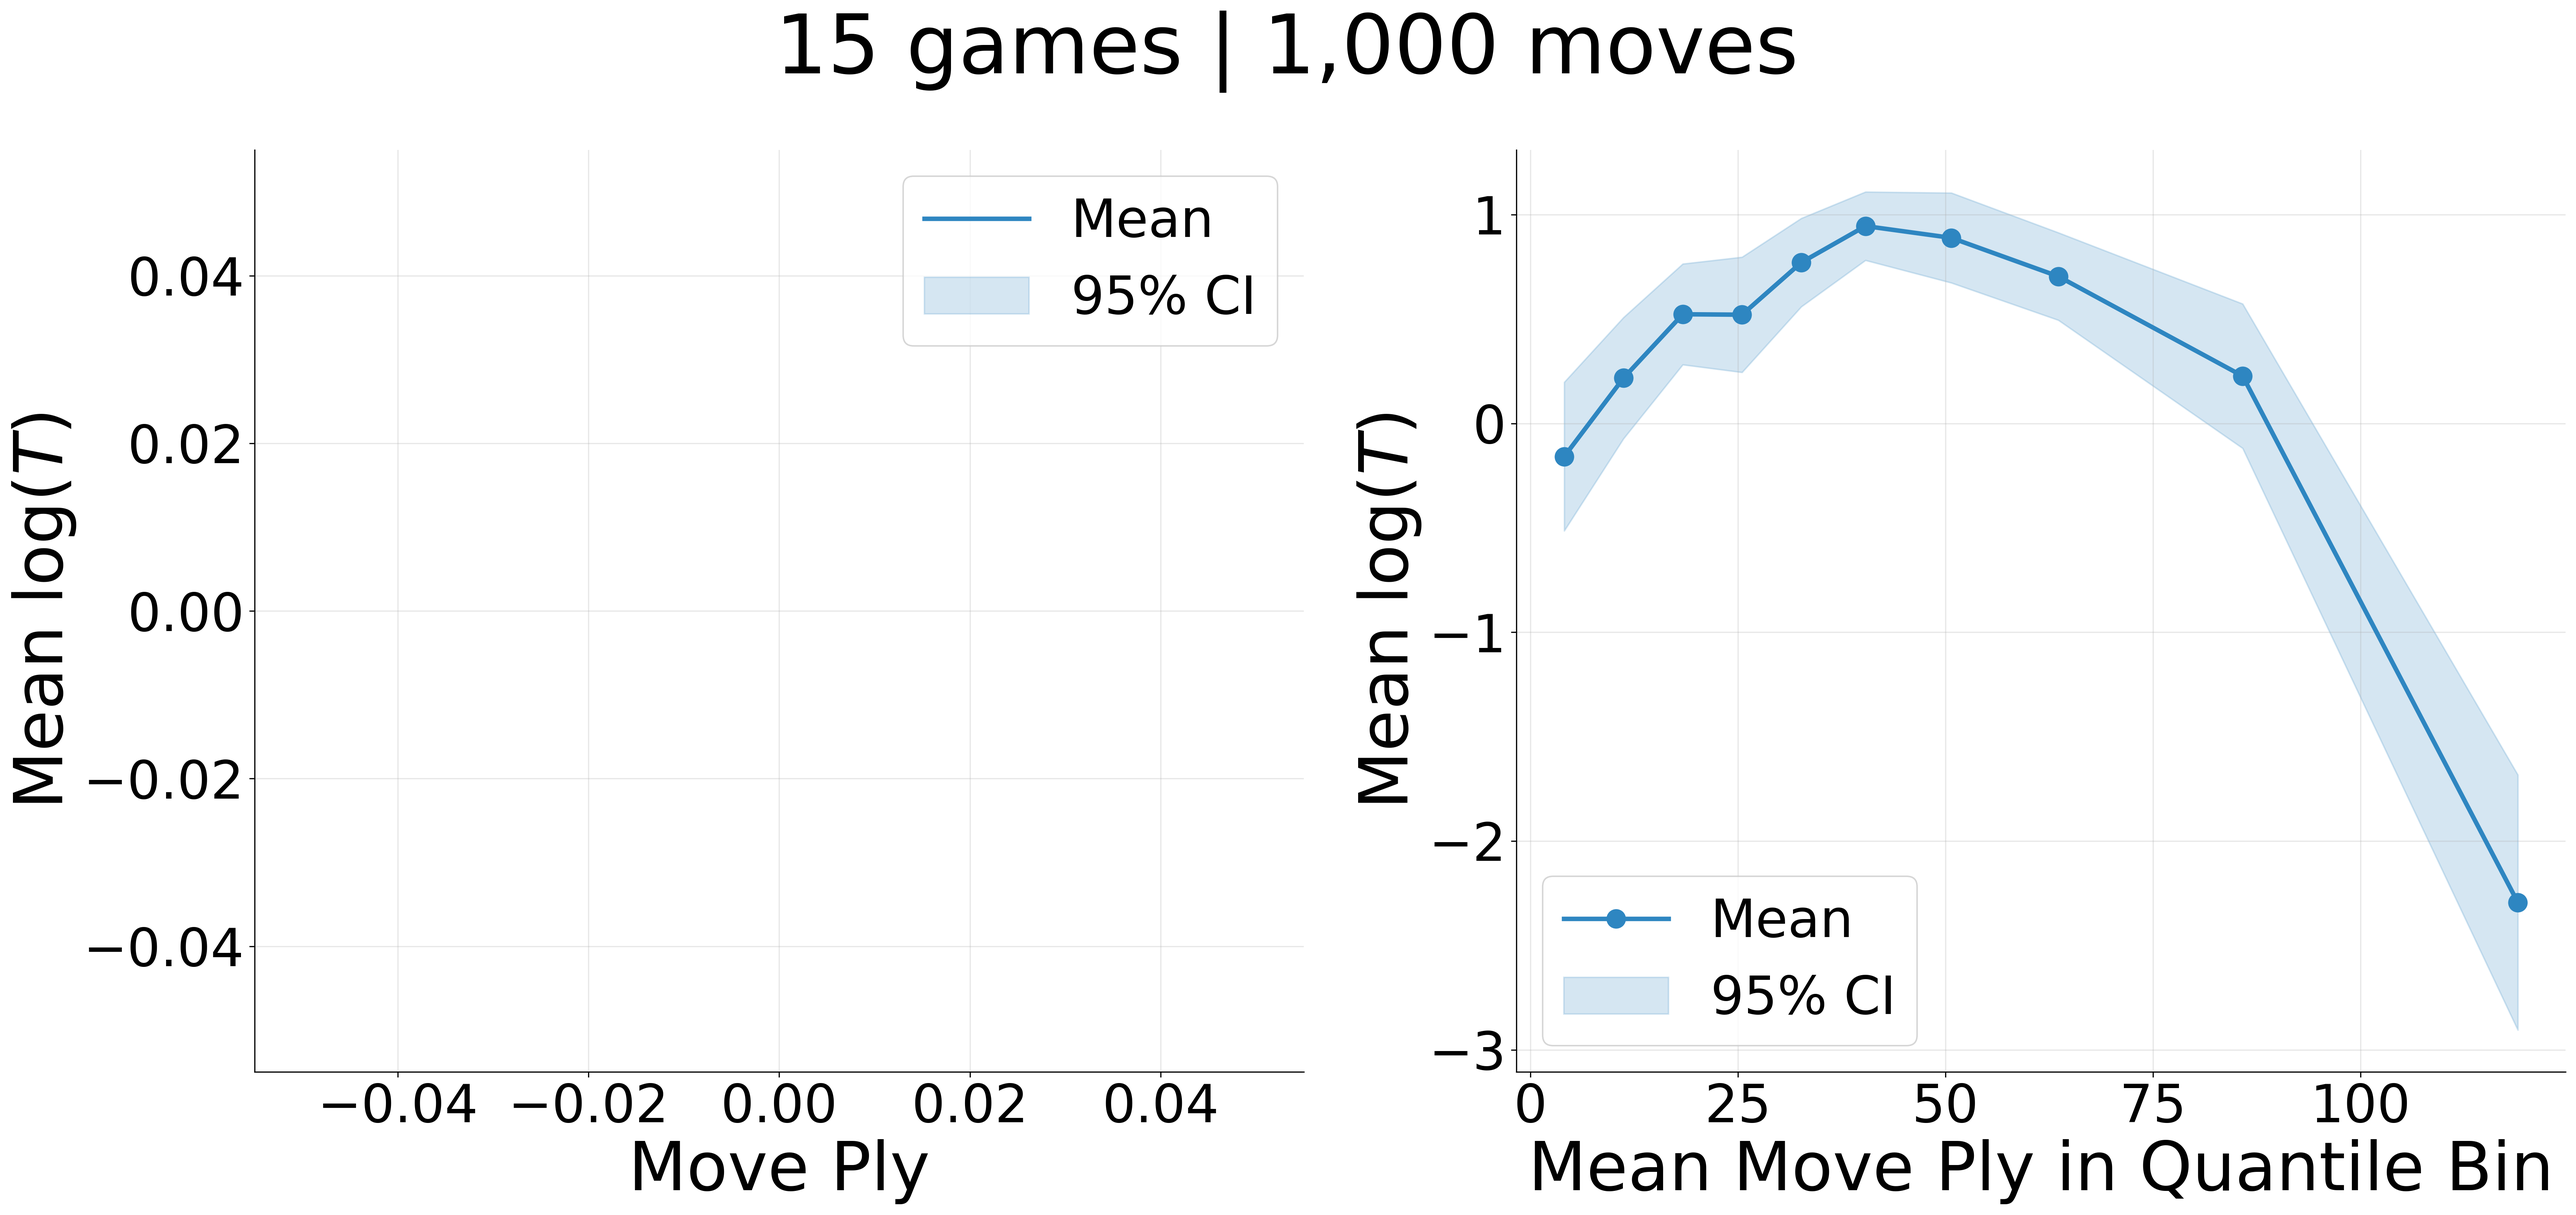
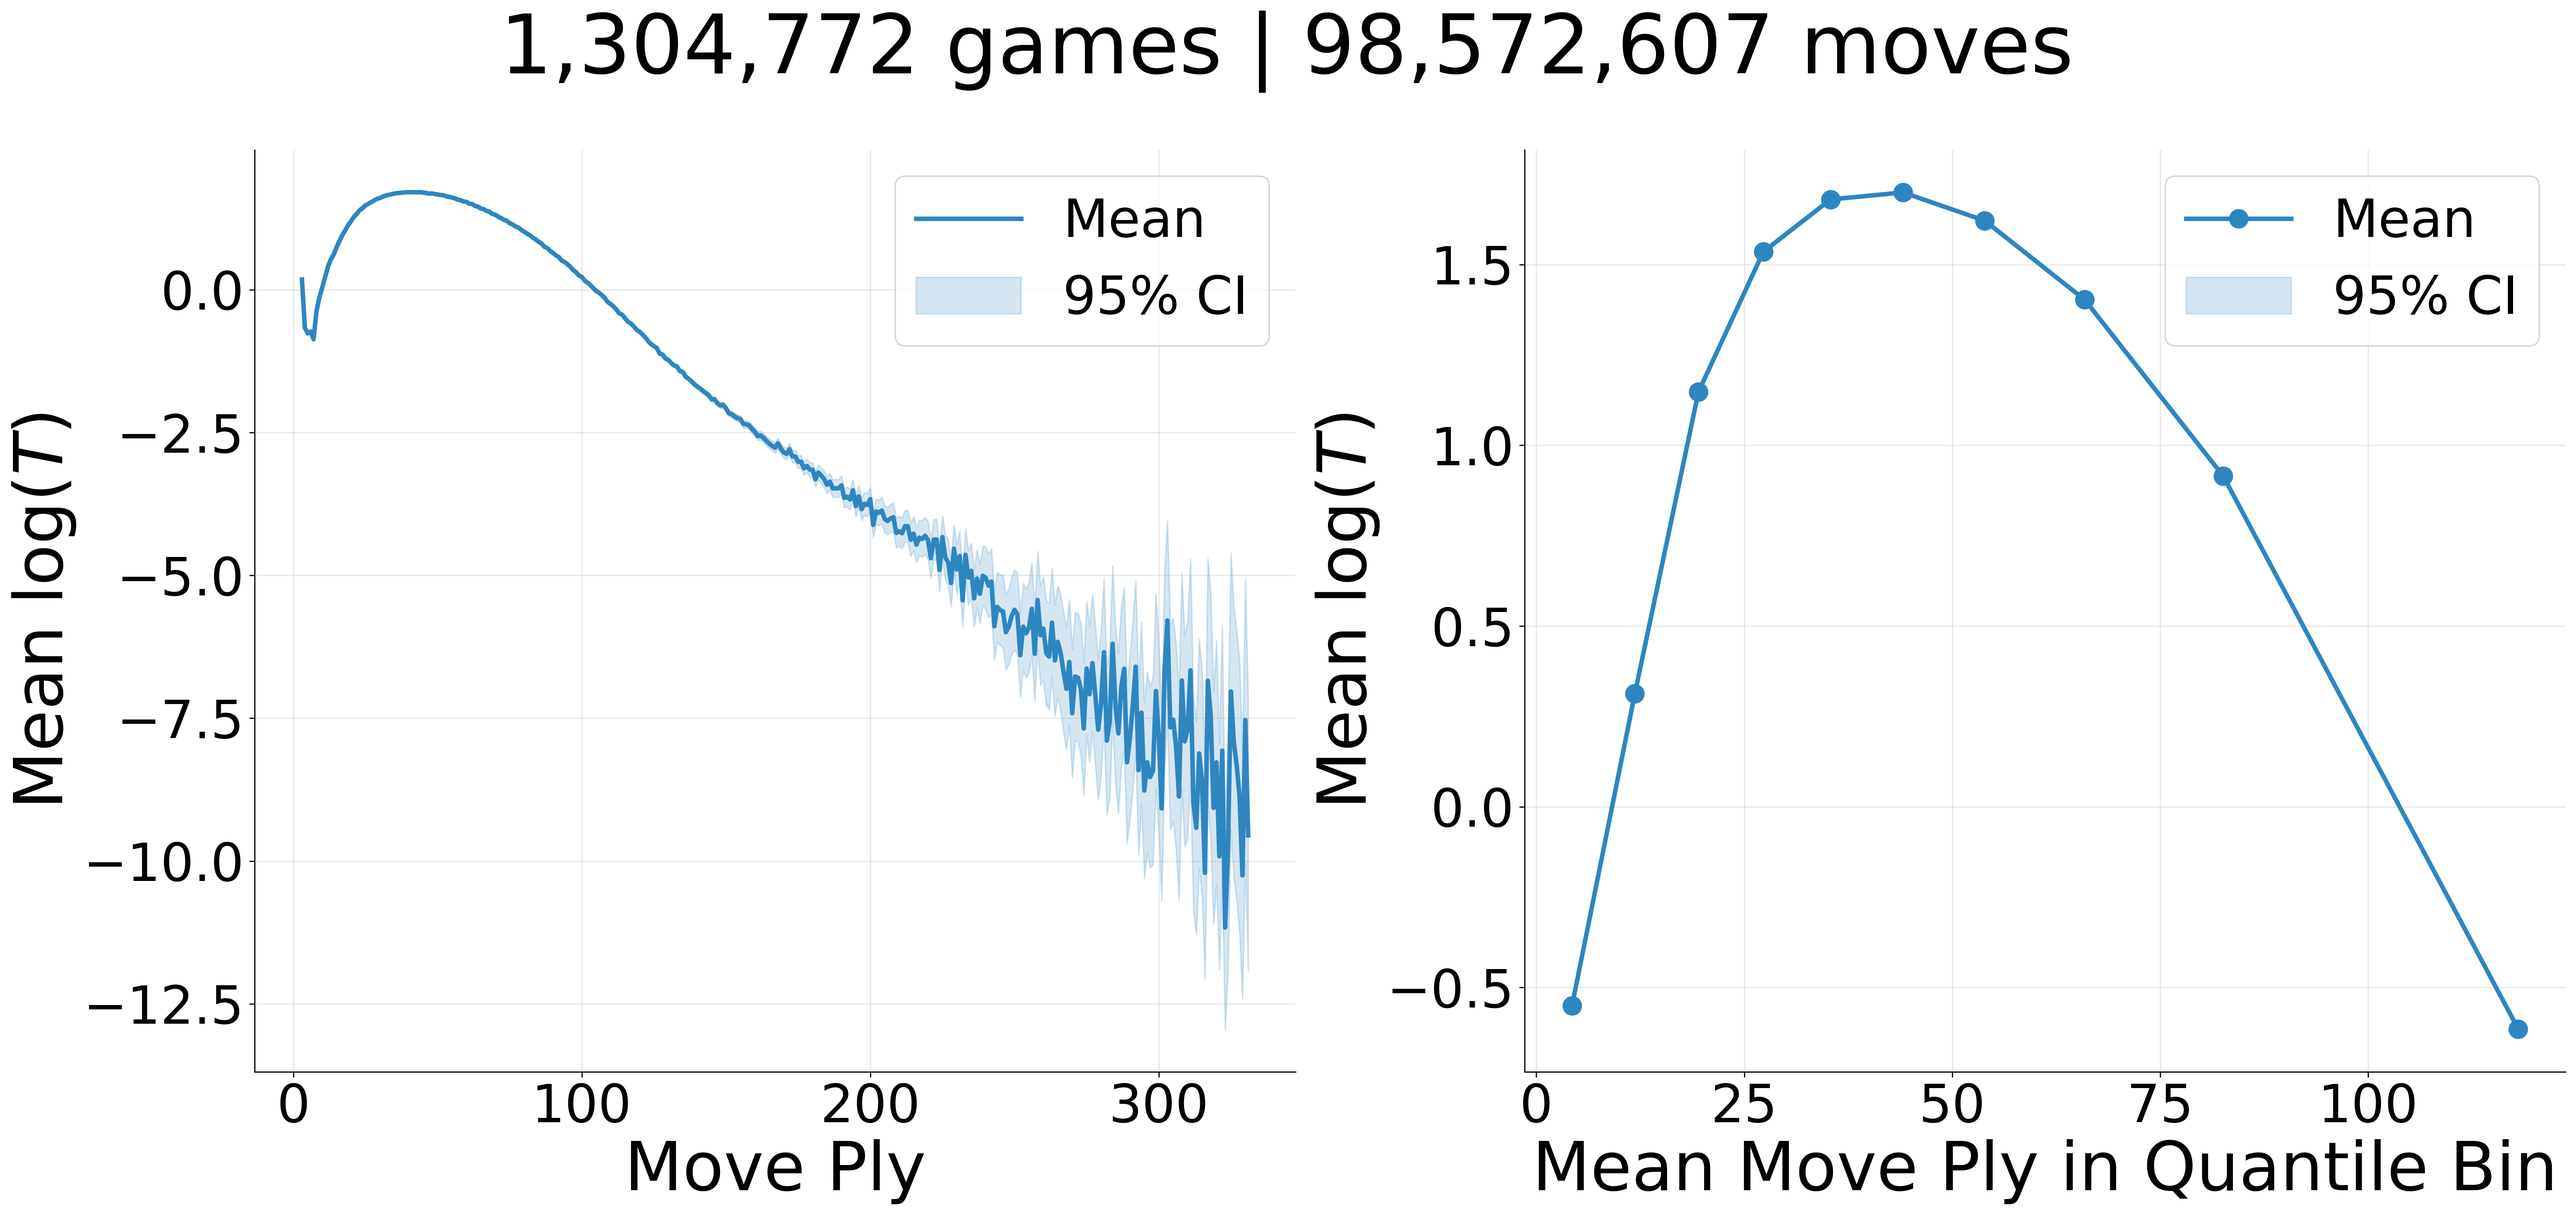
fixing plotting / modularity

diff --git a/src/clock_movetime.py b/src/clock_movetime.py
@@ -1,0 +1,119 @@
+"""
+Analysis of the relationship between player clock time and move time.
+This script visualizes how thinking time changes as the remaining clock budget decreases,
+using density hexbins and quantile-binned aggregate statistics.
+"""
+
+import os
+import json
+import duckdb
+import numpy as np
+import pandas as pd
+import matplotlib.pyplot as plt
+
+from utils import (
+    get_db_connection, apply_poster_style, MAIN_COLOR,
+    FONT_SIZE_LABEL, FONT_SIZE_TICKS
+)
+from utils.plots import plot_qbin_stats
+
+# Constants
+PERSONAL_DB = "/scratch/gpfs/GRIFFITHS/hl4291/personal.db"
+EPSILON = 1e-6
+LIMIT_N = 1000000  # Default to 1M moves for performance; set to None for full dataset
+
+def plot_raw_clock_hexbin(df, ax):
+    """
+    Plot the density of ln_move_time vs ln_player_clock_time using hexbin.
+    """
+    plt.sca(ax)
+    hb = ax.hexbin(df['ln_player_clock_time'], df['ln_move_time'], gridsize=50, cmap='Blues', mincnt=1)
+    ax.set_xlabel(r"log Player Clock (s)", fontsize=FONT_SIZE_LABEL)
+    ax.set_ylabel(r"log T (s)", fontsize=FONT_SIZE_LABEL)
+
+
+def main():
+    # 1. Connect
+    src_dir = os.path.dirname(os.path.abspath(__file__))
+    print(f"Connecting to {PERSONAL_DB}...")
+    conn = duckdb.connect(database=PERSONAL_DB, read_only=False)
+    
+    # 2. SQL Pre-calculation
+    limit_clause = f"LIMIT {LIMIT_N}" if LIMIT_N is not None else ""
+    print(f"Creating SQL tables _selected_moves and stats (limit={LIMIT_N or 'FULL'})...")
+    
+    conn.execute(f"""
+        CREATE OR REPLACE TABLE _selected_moves AS
+        SELECT 
+            gid,
+            move_ply,
+            player_clock_time,
+            ln(player_clock_time + {EPSILON}) as ln_player_clock_time,
+            ln(move_time + {EPSILON}) as ln_move_time,
+            ntile(10) over (order by player_clock_time) as clock_qbin
+        FROM (
+            SELECT gid, move_ply, player_clock_time, move_time
+            FROM selected_moves
+            {limit_clause}
+        );
+    """)
+    
+    # 3. Aggregate Statistics
+    print("Calculating aggregate statistics...")
+    conn.execute("""
+        CREATE OR REPLACE TABLE _clock_stats AS
+        SELECT 
+            clock_qbin,
+            avg(player_clock_time) as mean_clock,
+            avg(ln_move_time) as mean_y,
+            stddev(ln_move_time) as std_y,
+            count(*) as n
+        FROM _selected_moves
+        GROUP BY clock_qbin;
+    """)
+    
+    # 4. Get Counts
+    n_games = conn.execute("SELECT count(distinct gid) FROM _selected_moves").fetchone()[0]
+    n_moves = conn.execute("SELECT count(*) FROM _selected_moves").fetchone()[0]
+    print(f"Total Games: {n_games:,} | Total Moves: {n_moves:,}")
+    
+    # 5. Load Data for Plotting
+    print("Loading data for visualization...")
+    # For the hexbin, we sample if the table is very large to avoid memory issues in Pandas
+    df_raw = conn.execute("SELECT ln_player_clock_time, ln_move_time FROM _selected_moves USING SAMPLE 100000").df()
+    df_stats = conn.execute("SELECT * FROM _clock_stats ORDER BY clock_qbin").df()
+    conn.close()
+    
+    # 6. Plotting
+    apply_poster_style()
+    fig, axes = plt.subplots(1, 3, figsize=(30, 10))
+    
+    plot_raw_clock_hexbin(df_raw, axes[0])
+    plot_qbin_stats(
+        axes[1], df_stats, 
+        x_col='mean_clock', 
+        x_label="Qbin Player Clock (s)", 
+        y_label="log T (s)"
+    )
+
+    plot_qbin_stats(
+        axes[2], df_stats, 
+        x_col='mean_clock', 
+        x_label="Qrank Player Clock", 
+        y_label="log T (s)",
+        normalized=True
+    )
+
+    # Single-line minimalist title
+    title_text = f"{n_games:,} games | {n_moves:,} moves"
+    fig.suptitle(title_text, fontsize=FONT_SIZE_LABEL + 10, y=1.02)
+    
+    plt.tight_layout()
+    figures_dir = os.path.join(src_dir, "figures", "clock_movetime")
+    os.makedirs(figures_dir, exist_ok=True)
+    output_plot = os.path.join(figures_dir, "combined.png")
+    plt.savefig(output_plot, dpi=300, bbox_inches='tight')
+    print(f"\n✅ Combined clock trend plot saved to {output_plot}")
+
+if __name__ == "__main__":
+    main()

diff --git a/src/ply_movetime.py b/src/ply_movetime.py
@@ -15,6 +15,7 @@ from utils import (
     get_db_connection, apply_poster_style, MAIN_COLOR,
     FONT_SIZE_LABEL, FONT_SIZE_TICKS
 )
+from utils.plots import plot_qbin_stats
 
 # Constants
 PERSONAL_DB = "/scratch/gpfs/GRIFFITHS/hl4291/personal.db"
@@ -45,27 +46,6 @@ def plot_raw_ply_trend(stats, ax, min_samples=30):
     ax.set_ylabel(r"Mean $\log(T)$", fontsize=FONT_SIZE_LABEL)
     ax.legend(fontsize=FONT_SIZE_TICKS)
 
-def plot_qbin_ply_trend(stats, ax):
-    """
-    Plot the quantile-binned trend using precalculated stats with shaded 95% CI.
-    """
-    plt.sca(ax)
-    
-    # stats has ['move_ply_qbin', 'mean_move_ply', 'mean_ln_move_time', 'std_ln_move_time', 'n']
-    stats = stats.sort_values('move_ply_qbin')
-    stats['sem'] = stats['std_ln_move_time'] / np.sqrt(stats['n'])
-    stats['ci_y'] = 1.96 * stats['sem']
-    
-    y_mean = stats['mean_ln_move_time']
-    y_lower = y_mean - stats['ci_y']
-    y_upper = y_mean + stats['ci_y']
-    
-    ax.plot(stats['mean_move_ply'], y_mean, marker='o', color=MAIN_COLOR, lw=3, markersize=12, label="Mean")
-    ax.fill_between(stats['mean_move_ply'], y_lower, y_upper, color=MAIN_COLOR, alpha=0.2, label="95% CI")
-    
-    ax.set_xlabel("Mean Move Ply in Quantile Bin", fontsize=FONT_SIZE_LABEL)
-    ax.set_ylabel(r"Mean $\log(T)$", fontsize=FONT_SIZE_LABEL)
-    ax.legend(fontsize=FONT_SIZE_TICKS)
 
 def main():
     # 1. Connect
@@ -131,7 +111,14 @@ def main():
     fig, axes = plt.subplots(1, 2, figsize=(24, 11))
     
     plot_raw_ply_trend(df_ply_stats, axes[0], min_samples=30)
-    plot_qbin_ply_trend(df_qbin_stats, axes[1])
+    plot_qbin_stats(
+        axes[1], df_qbin_stats,
+        x_col='mean_move_ply',
+        y_col='mean_ln_move_time',
+        std_col='std_ln_move_time',
+        x_label="Mean Move Ply in Quantile Bin",
+        y_label=r"Mean $\log(T)$"
+    )
     
     # Single-line minimalist title
     title_text = f"{n_games:,} games | {n_moves:,} moves"

diff --git a/src/utils/plots.py b/src/utils/plots.py
@@ -172,3 +172,48 @@ def plot_distribution_side_by_side(df, raw_col="move_time", log_col="ln_move_tim
         plt.close()
     else:
         plt.show()
+
+def plot_qbin_stats(ax, df, x_col='mean_x', y_col='mean_y', std_col='std_y', n_col='n', x_label=None, y_label=None, color=MAIN_COLOR, label="Mean", normalized=False):
+    """
+    Generalized quantile-binned trend plot with shaded 95% CI.
+    
+    Args:
+        ax: Matplotlib axis to plot on.
+        df: DataFrame containing the pre-aggregated statistics.
+        x_col: Column for the x-axis (e.g., mean value of the bin).
+        y_col: Column for the y-axis (e.g., mean outcome).
+        std_col: Column containing standard deviation of the outcome.
+        n_col: Column containing sample size of the bin.
+        x_label: Label for x-axis.
+        y_label: Label for y-axis.
+        color: Primary color for the plot.
+        label: Label for the mean line.
+        normalized: If True, plots x as quantile rank (0-1) based on bin order.
+    """
+    apply_poster_style()
+    df = df.sort_values(x_col).copy()
+    
+    # Calculate 95% CI: 1.96 * SEM
+    sem = df[std_col] / np.sqrt(df[n_col])
+    ci_y = 1.96 * sem
+    
+    y_mean = df[y_col]
+    y_lower = y_mean - ci_y
+    y_upper = y_mean + ci_y
+    
+    # Determine x-values
+    if normalized:
+        x_vals = np.arange(1, len(df) + 1) / len(df)
+        if x_label is None:
+            x_label = "Quantile Rank"
+    else:
+        x_vals = df[x_col]
+    
+    ax.plot(x_vals, y_mean, marker='o', color=color, lw=3, markersize=12, label=label)
+    ax.fill_between(x_vals, y_lower, y_upper, color=color, alpha=0.2, label="95% CI")
+    
+    if x_label:
+        ax.set_xlabel(x_label, fontsize=FONT_SIZE_LABEL)
+    if y_label:
+        ax.set_ylabel(y_label, fontsize=FONT_SIZE_LABEL)
+    ax.legend(fontsize=FONT_SIZE_TICKS)
